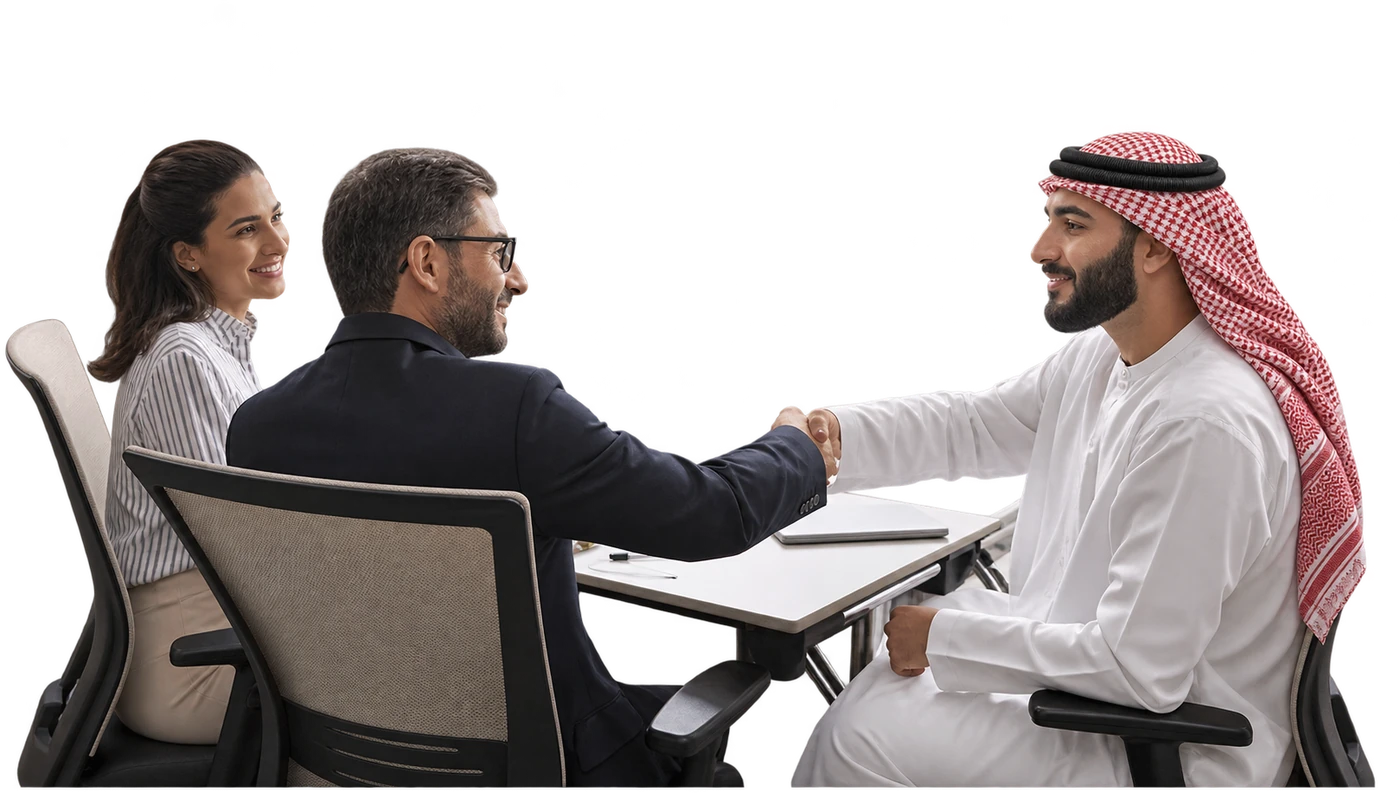
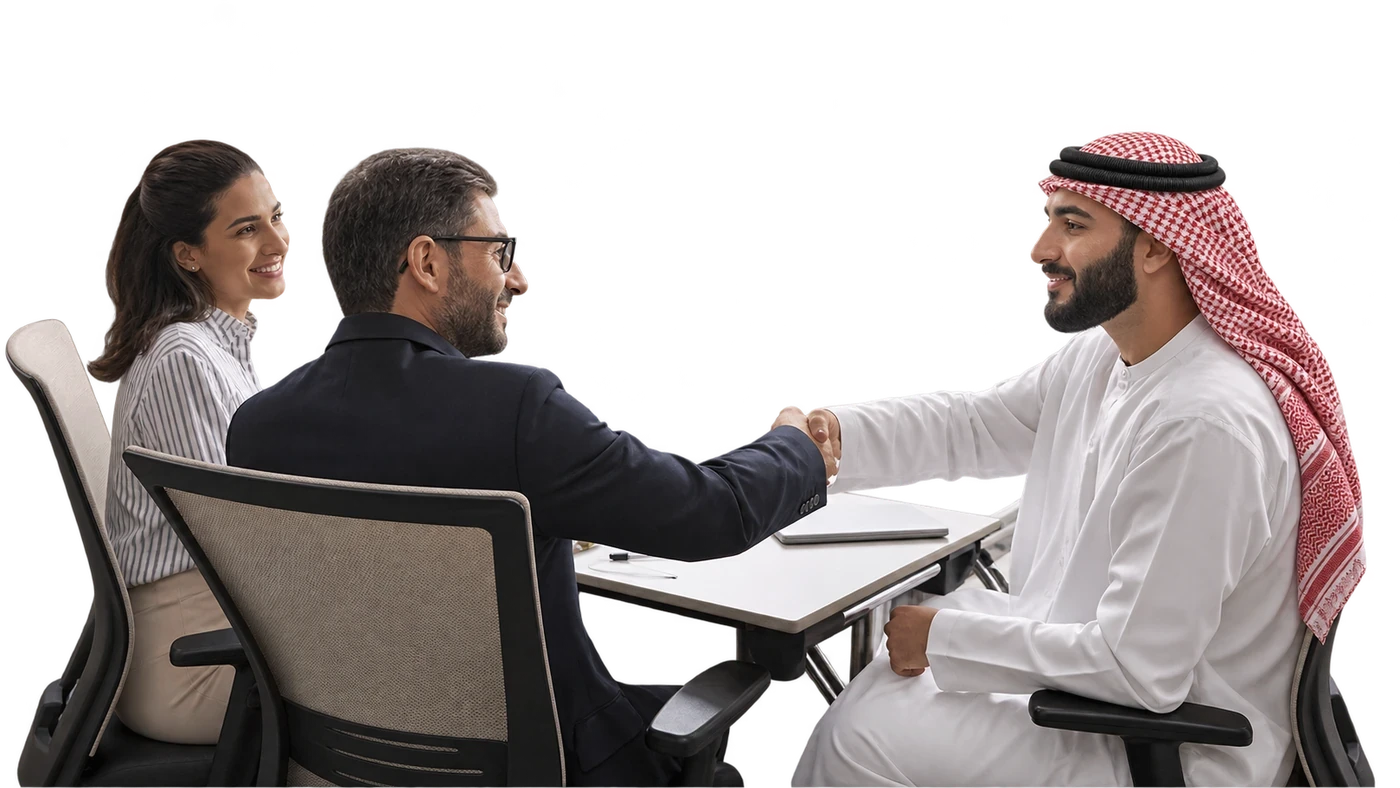
Consultancy hero: align image to bottom, softer gradient
Claude-Session: https://claude.ai/code/session_01Q8SfPFzKec2UT1Fop63zbA

Changed region(s): [[0.0, 0.1523, 0.9829, 1.0]]

diff --git a/management-consultancy.html b/management-consultancy.html
@@ -7200,10 +7200,10 @@ input, select, textarea {
   .mcb-copy .mch-kicker { text-align:left; margin-left:0; }
   .mcb-title { margin:12px 0 0; font-size:clamp(32px,3.6vw,50px); font-weight:500; line-height:1.08; letter-spacing:-1.6px; color:#073f2c; background:linear-gradient(120deg,#073f2c 0%,#0d9b49 55%,#3ccf7a 100%); -webkit-background-clip:text; background-clip:text; -webkit-text-fill-color:transparent; }
   .mcb-title span { display:inline-block; font-size:.68em; line-height:1.15; letter-spacing:-1px; white-space:nowrap; }
-  .mcb::before, .mcb::after { display:none !important; }
+  .mcb::before { display:none !important; }
   .mcb-tag { margin:18px 0 0; max-width:440px; font-size:16px; line-height:1.6; color:#5a5f62; }
   .mcb-actions { justify-content:flex-start !important; margin-top:28px; }
-  .mcb-people { position:absolute; right:0; bottom:0; width:min(58%,700px); height:auto; animation:mcb-up 1.3s cubic-bezier(.16,1,.3,1) .25s both; filter:drop-shadow(0 20px 30px rgba(7,63,44,.18)); }
+  .mcb-people { position:absolute; right:0; bottom:0; width:min(58%,700px); height:auto; animation:mcb-up 1.3s cubic-bezier(.16,1,.3,1) .25s both; filter:drop-shadow(0 -6px 24px rgba(7,63,44,.12)); }
   @keyframes mcb-blob { from { opacity:0; transform:scale(.92); } }
   @keyframes mcb-up { from { opacity:0; transform:translateY(40px); } }
   @media (max-width:900px) {
@@ -7215,6 +7215,8 @@ input, select, textarea {
     .mcb-people { position:relative; width:100%; max-width:560px; margin:0 auto; }
   }
   @media (prefers-reduced-motion: reduce) { .mcb-blob, .mcb-people { animation:none; } }
+  .mcb::after { content:""; display:block !important; position:absolute; left:0; right:0; bottom:0; height:70px; z-index:0; pointer-events:none; background:linear-gradient(180deg, rgba(255,255,255,0), rgba(255,255,255,.55)); }
+  .mcb-people { z-index:1; }
 </style>
 </head>
 
@@ -7398,7 +7400,7 @@ input, select, textarea {
     <!-- MANAGEMENT CONSULTANCY HERO -->
     <section class="mch mcb" aria-labelledby="mc-title">
       <svg class="mcb-blob" viewBox="0 0 600 520" preserveAspectRatio="none" aria-hidden="true">
-        <defs><linearGradient id="mcb-g" x1="0" y1="0" x2="1" y2="1"><stop offset="0" stop-color="#3ccf7a"/><stop offset=".55" stop-color="#19b35a"/><stop offset="1" stop-color="#0d9b49"/></linearGradient></defs>
+        <defs><linearGradient id="mcb-g" x1="0" y1="0" x2="1" y2="1"><stop offset="0" stop-color="#5fdc95"/><stop offset=".5" stop-color="#2fc06c"/><stop offset="1" stop-color="#14a554"/></linearGradient></defs>
         <path fill="url(#mcb-g)" d="M150 0 H600 V520 H330 C250 470 170 380 130 280 C90 180 80 90 150 0 Z"/>
       </svg>
       <div class="mcb-in">
@@ -7411,7 +7413,7 @@ input, select, textarea {
             <a class="mch-link" href="#contact">Talk to DMS</a>
           </div>
         </div>
-        <img class="mcb-people" src="assets/mc-hero-people.webp?v=2" alt="DMS consultant shaking hands with a client at a meeting" width="1400" height="805" fetchpriority="high" decoding="async">
+        <img class="mcb-people" src="assets/mc-hero-people.webp?v=3" alt="DMS consultant shaking hands with a client at a meeting" width="1400" height="788" fetchpriority="high" decoding="async">
       </div>
     </section>
 
